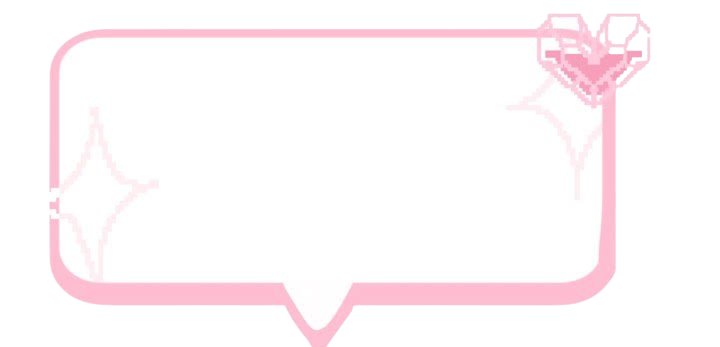
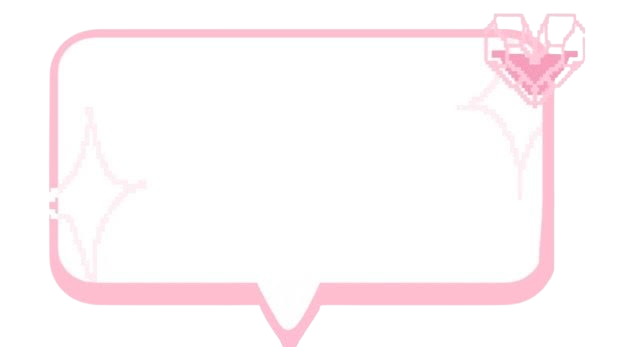
basic mobile view implementation finished

diff --git a/style.css b/style.css
@@ -50,6 +50,8 @@ html {
     .textbox-child-container {
       width: 38rem;
       margin-left: 10rem;
+      background-image: url('images/textboxSide.png');
+      background-size: cover;
     }
 
     .button-child-container {
@@ -64,6 +66,21 @@ html {
     .generateButton {
       height: 4.3rem;
       width: 9.5rem;
+      background-image: url('images/buttonBackground.jpg');
+    }
+
+    #myTrope {
+      font-size: 1.6rem;
+      width: 20rem;
+      margin-right: 4rem;
+      margin-bottom: 9rem;
+    }
+
+    #myTropeDescription {
+      font-size: 1rem;
+      width: 20rem;
+      margin-right: 4rem;
+      margin-top: 2rem;
     }
   }
 
@@ -111,10 +128,11 @@ html {
     }
 
     .textbox-child-container {
-      height: 23rem;
+      height: 28rem;
       border-style: dotted;
       border-color: rgb(0, 255, 128);
       background-image: url('images/textboxBottom.png');
+      background-size: cover;
     }
 
     .textbox-parent-container {
@@ -139,6 +157,28 @@ html {
 
     .generateButton {
       width: 30rem;
+      height: 8.7rem;
+      background-image: url('images/buttonBackgroundLong.jpg');
+    }
+
+    #myTrope {
+      border-style: dotted;
+      border-color: rgb(0, 255, 191);
+
+      font-size: 2rem;
+      width: 34rem;
+      margin-right: 1rem;
+      margin-bottom: 17rem;
+    }
+
+    #myTropeDescription {
+      border-style: dotted;
+      border-color: brown;
+
+      font-size: 2rem;
+      width: 34rem;
+      margin-right: 1rem;
+      margin-top: 5rem;
     }
   }
   
@@ -213,7 +253,6 @@ html {
   }
 
   .generateButton {
-    background-image: url('images/buttonBackground.jpg');
     background-size: contain;
 
     font-family: "TitlePixel";
@@ -246,14 +285,10 @@ html {
   }
 
   #myTrope {
-    width: 20rem;
-    font-size: 1.6rem;
 
     font-family: "DescriptionPixel";
     -webkit-text-stroke: .1rem rgb(255, 118, 164);
 
-    margin-right: 4rem;
-    margin-bottom: 9rem;
     display: flex;
     justify-content: center;
     align-items: center;
@@ -266,13 +301,9 @@ html {
   }
 
   #myTropeDescription {
-    width: 20rem;
-    font-size: 1rem;
 
     font-family: "DescriptionPixel";
 
-    margin-right: 4rem;
-    margin-top: 2rem;
     display: flex;
     justify-content: center;
     align-items: center;
